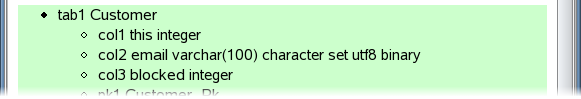
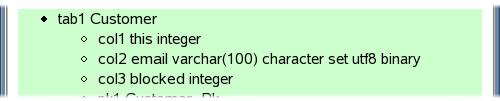
remake screenshot images to 500 width and fade out
git-svn-id: https://svn.exedio.com/cope/trunk/persistence@6394 e7d4fc99-c606-0410-b9bf-843393a9eab7

Changed region(s): [[0.0, 0.0, 1.0, 0.9697], [0.12, 0.303, 0.84, 0.6667], [0.12, 0.697, 0.48, 0.8788]]

diff --git a/home/schema.html b/home/schema.html
@@ -9,7 +9,6 @@
 			{
 				border:0;
 				margin:12pt;
-				width:581px;
 			}
 		</style>
 	</head>
@@ -41,7 +40,7 @@
 			select the Tabulator <i>Schema</i>,
 			and you will see something like this:
 		</div>
-		<img src="schema1.png" class="console" />
+		<img src="schema1.png" class="console" width="500" />
 		<div>
 			The example model used to create this screenshot
 			contains two types <tt>Customer</tt> and <tt>Order</tt>.
@@ -57,7 +56,7 @@ public class Customer extends Item
 			Now click on the table <i>Customer</i>
 			to see the table details:
 		</div>
-		<img src="schema2.png" class="console" />
+		<img src="schema2.png" class="console" width="500" />
 		<div>
 			This shows you two columns:
 			<ul>
@@ -96,13 +95,13 @@ public class Customer extends Item
 			If you start up the new application containing the new field,
 			the <i>Schema</i> looks like this:
 		</div>
-		<img src="schema3.png" class="console" />
+		<img src="schema3.png" class="console" width="500" />
 		<div>
 			The red color tells you,
 			something is wrong with table <i>Customer</i>.
 			Click on it for further details:
 		</div>
-		<img src="schema4.png" class="console" />
+		<img src="schema4.png" class="console" width="500" />
 		<div>
 			Again, the red color tells you,
 			that something is wrong with column <i>blocked</i>.
@@ -112,14 +111,14 @@ public class Customer extends Item
 			and push the button <i>Apply</i> further up the page.
 			The next screen looks like this:
 		</div>
-		<img src="schema5.png" class="console" />
+		<img src="schema5.png" class="console" width="500" />
 		<div>
 			The only difference is,
 			that column <i>blocked</i> does exists now,
 			and therefore the red background turned to green.
 			On the same page there is a log about COPE's activities:
 		</div>
-		<img src="schema5a.png" class="console" />
+		<img src="schema5a.png" class="console" width="581" />
 		<div>
 			This shows you, that column <i>blocked</i> of table
 			<i>Customer</i> just has been created.
